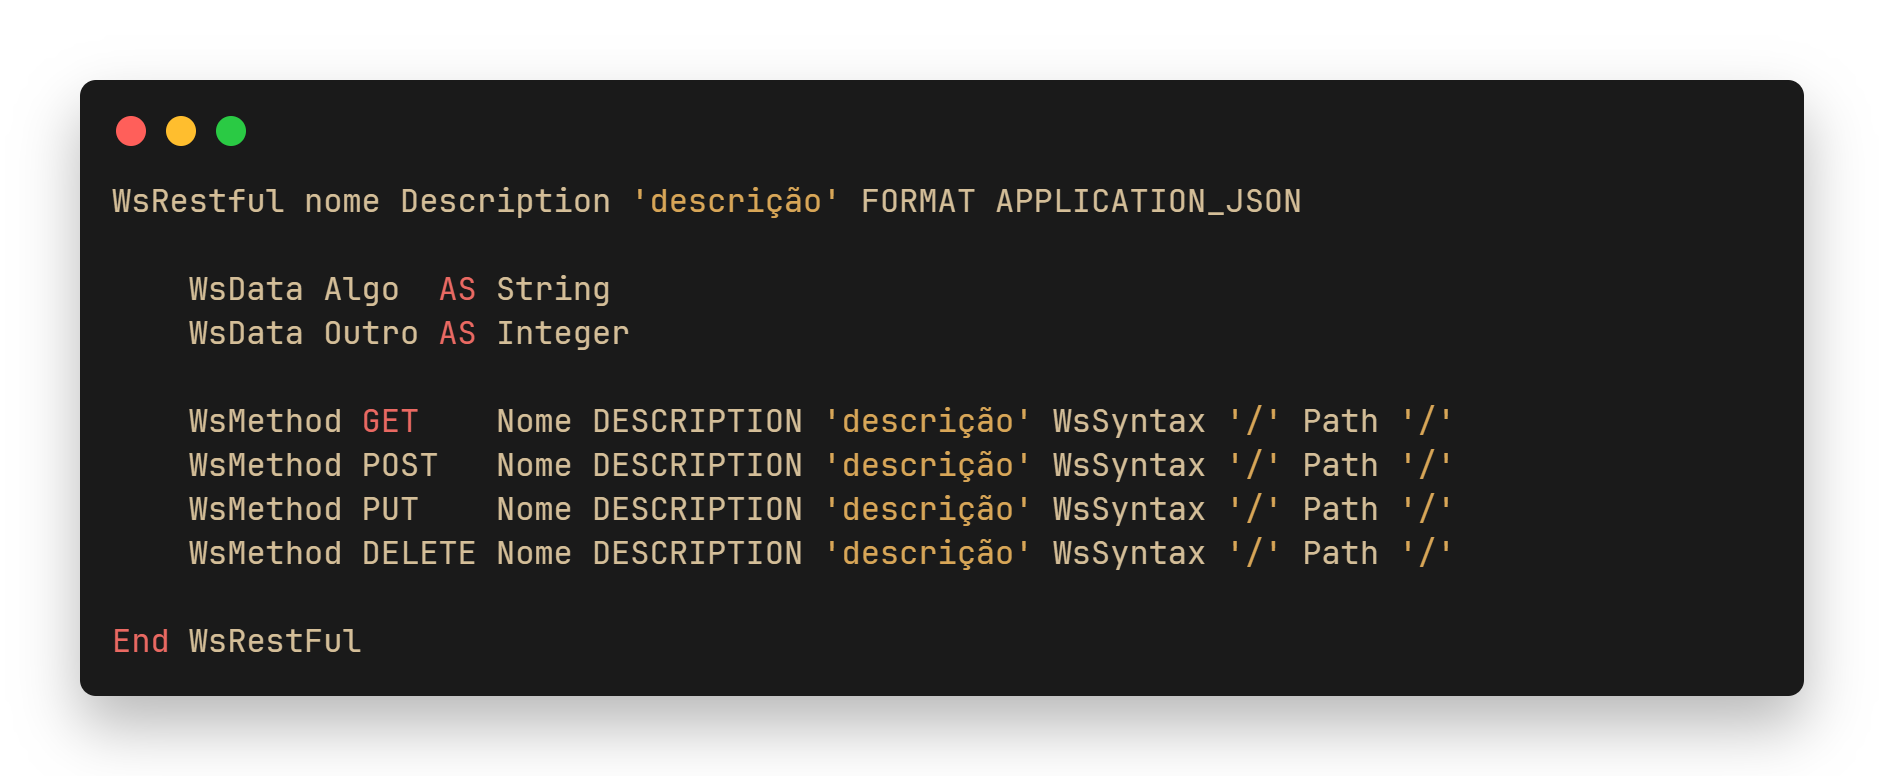
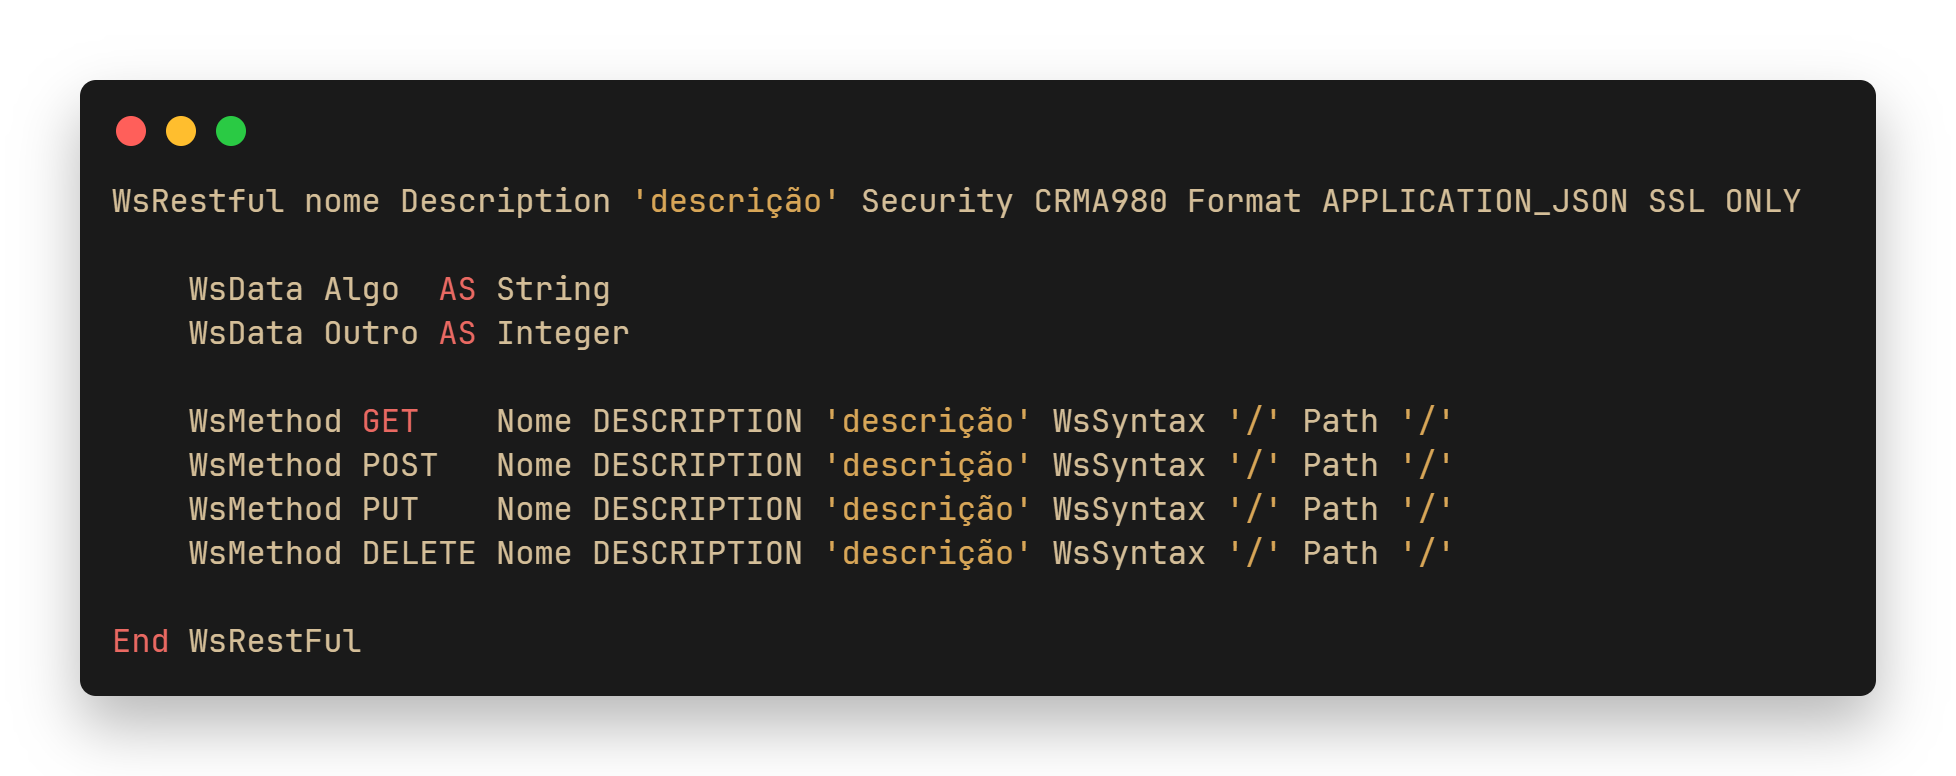
Update README - Entendendo o cabeçalho

diff --git a/README.md b/README.md
@@ -1,13 +1,26 @@
-# Como consumir uma API REST com ADVPL
-![Static Badge](https://img.shields.io/badge/feito_com_ADVPL-4A4A4A?style=for-the-badge) ![Static Badge](https://img.shields.io/badge/status-em_constru%C3%A7%C3%A3o-orange?style=for-the-badge&labelColor=%234A4A4A&color=%23F5A623)
+# Como consumir uma API REST
+![Static Badge](https://img.shields.io/badge/Feito%20com%20ADVPL-363636?style=for-the-badge&logo=totvs) ![Static Badge](https://img.shields.io/badge/status-em_constru%C3%A7%C3%A3o-orange?style=for-the-badge&labelColor=%234A4A4A&color=%23F5A623)
 
-
-
+---
 
 **Índice**
 1. [Includes](#includes)
-2. [WSRestFul – Entendo a classe]()
-
+2. [WSRestFul – Entendo a classe](#wsrestful--entendendo-a-classe)
+    1. [Entendendo o cabeçalho](#entendendo-o-cabeçalho)
+        a. [WSRestFul](#wsrestful)
+        b. [Description](#description)
+        c. [Format](#format)
+    2. [Entendendo o conteúdo](#entendendo-o-conteúdo)
+    3. [Entendendo os métodos](#entendendo-os-métodos)
+        a. [GET](#get)
+        b. [POST](#post)
+        c. [PUT](#put)
+        d. [DELETE](#delete)
+3. [Construindo um Método GET](#construindo-um-método-get)
+4. [Construindo um Método POST](#construindo-um-método-post)
+5. [Construindo um Método PUT](#construindo-um-método-put)
+6. [Construindo um Método DELETE](#construindo-um-método-delete)
+---
 
 ## Includes
 A primeira coisa a se levar em consideração em um código fonte em ADVPL são os [**includes**](# "arquivos *.ch que importam códigos de outros fontes pro fonte atual."). 
@@ -15,4 +28,46 @@ A primeira coisa a se levar em consideração em um código fonte em ADVPL são 
 Neste fonte específico fazemos uso dos includes `totvs.ch` e `restful.ch`. O primeiro traz consigo diversas funcionalidades padrão sendo indispensável a quase qualquer fonte ADVPL. Já o segundo, como o próprio nome sugere, é responsável por adicionar as funcionalidades voltadas para o consumo da API REST.
 
 ## WSRestFul – Entendendo a classe
-![Includes necessários para consumir a API](/imgs/wsrestful.png)
+![Estrutura básica de uma classe WSRestFul](/imgs/wsrestful.png)
+
+### Entendendo o cabeçalho
+#### WSRestFul
+> 🏁  **Parâmetro Obrigatório** - Tipo: C (String)
+> O nome de uma classe REST, deve ser iniciada por um caractere alfabético e deve conter apenas os caracteres alfabéticos compreendidos entre A e Z, os caracteres numéricos compreendidos entre 0 e 9, podendo também ser utilizado o caracter "_" (underline).
+> 1. Um serviço não pode ter o nome de uma palavra reservada, da linguagem AdvPL, ou ter o nome igual a um tipo básico de informação.
+> 2. O nome da classe REST é o mesmo utilizado na URI, desta forma, deve-se respeitar a estrutura de nomes permitidos na mesma.
+
+Para construir uma classe que consumirá a API REST devemos iniciá-la declarando uma classe REST (server) por meio do comando **`WSRestFul`** e logo após passamos o nome do nosso serviço. Note que este é o nome que será chamado pelos métodos que construiremos adiante e não há necessidade de ser o mesmo nome dado ao fonte, no entanto, este nome também será exibido no painel de listagem de serviços REST da sua API e, portanto, é importante fazer com que ele seja facilmente identificável. O final do comando deve ser sinalizado através de um **`End WSRestFul`**.
+#### Description
+> 🏁  **Parâmetro Obrigatório** - Tipo: C (String)
+>O segundo parâmetro que assinalimos no cabeçalho é a descrição do serviço que estamos criando e que também será exibido na no painel de listagem de serviços REST da sua API.
+
+A descrição deve ser passada entre aspas (simples ou duplas, não há diferença).
+#### Security
+> Tipo: C (String)
+Informe o nome da rotina que tem relação com a API REST (exemplo CRMA980 ou MATA410), esse nome será utilizado para validação dos privilégios, permitindo assim o acesso ou não a API.
+
+#### Format
+> Tipo: C (String)
+Informe o formato de exportação do serviço. Esta informação é utilizada na listagem dos serviços REST.
+
+Neste caso, normalmente utilizamos o formato APPLICATION_JSON, no entando há uma pequena [lista de formatos possíveis de utilizar](/utils/formats.txt).
+
+#### SSL ONLY
+>Tipo: -
+Indica que a classe só permitirá o acesso via conexão segura do tipo SSL (Secure Socket Layer).
+
+### Entendendo o conteúdo
+#### WSData
+#### WSMethod
+
+### Entendendo os métodos
+#### GET
+#### POST
+#### PUT
+#### DELETE
+
+## Construindo um Método GET
+## Construindo um Método POST
+## Construindo um Método PUT
+## Construindo um Método DELETE
